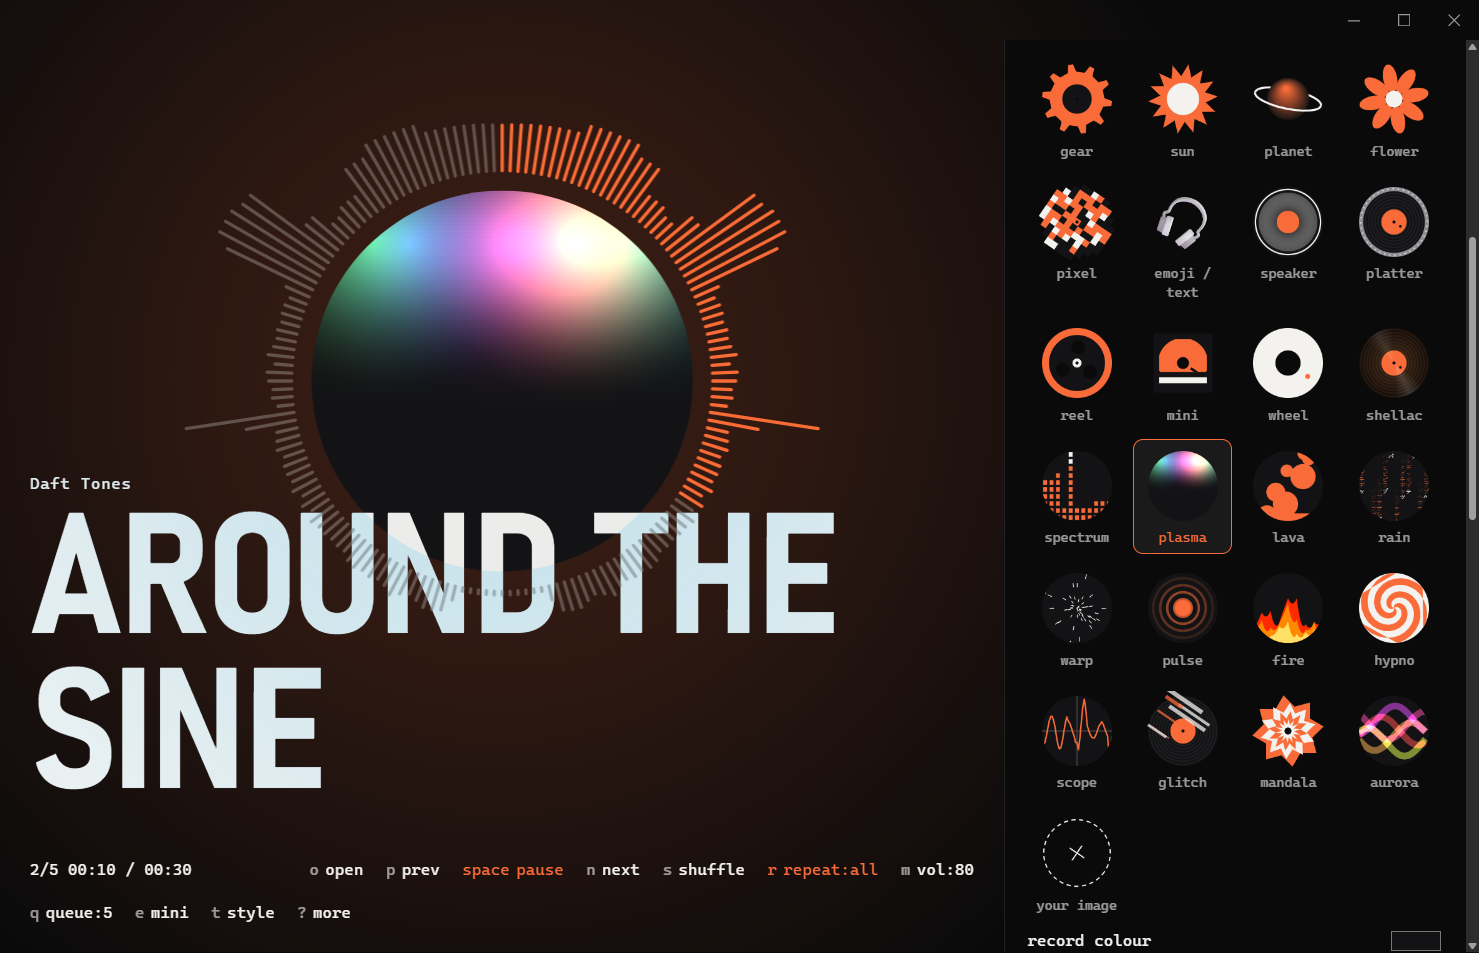
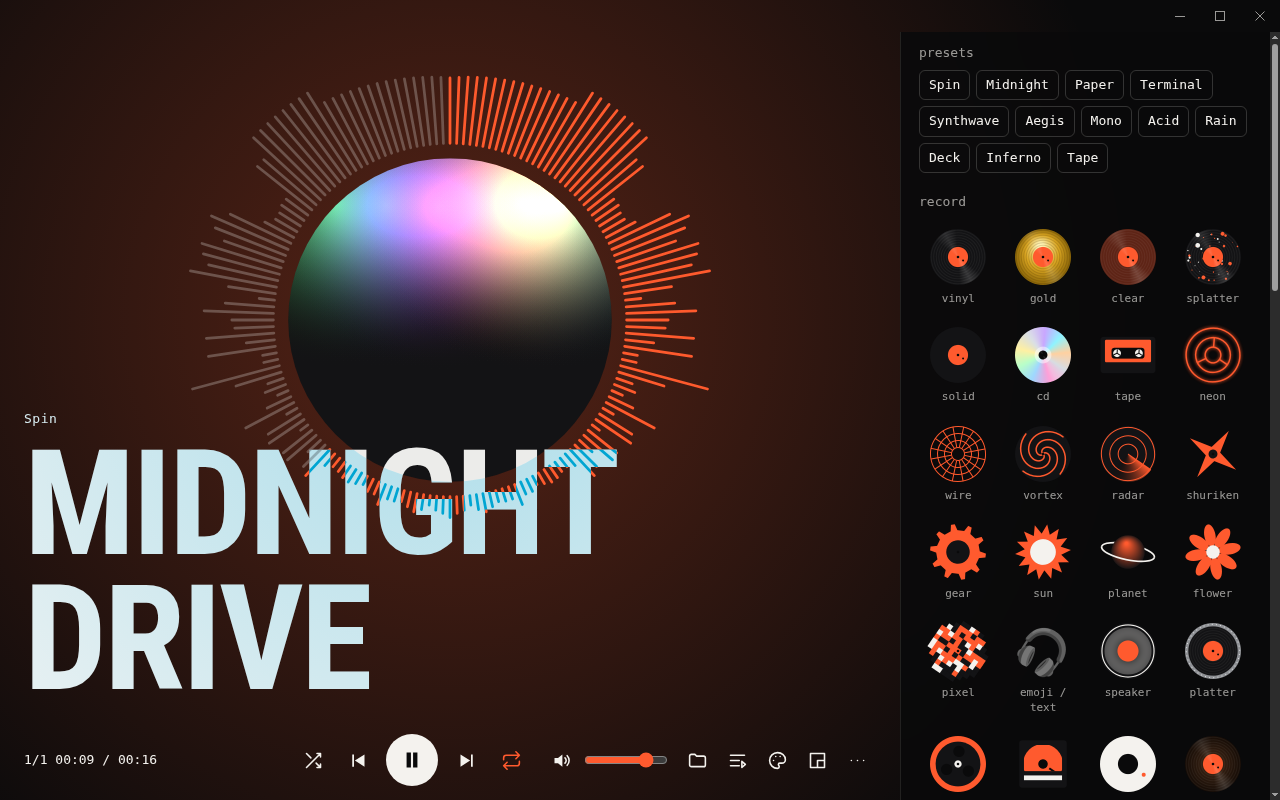
Redesign the README
Add a centred header, a looping preview, a record gallery and a theme grid,
refresh the screenshots, and fold the technical details away.

diff --git a/README.md b/README.md
@@ -1,117 +1,190 @@
+<div align="center">
+
+<img src="build/icon.png" width="110" alt="">
+
 # Spin
 
-A minimal music player for the music folder you already have. Open a folder, press play, and spin the record with your mouse to move through the song.
+**A music player you can actually spin.**
 
-No accounts, no cloud, no library to organise. Everything Spin learns stays on your computer.
+Open the folder you already have, press play, and drag the record to move through the song.<br>
+No accounts. No cloud. No library to organise.
 
-[![Spin in 16 seconds. Select to watch with sound.](docs/spin-promo.gif)](docs/spin-promo.mp4)
+[**Download**](../../releases) · [Watch the video](docs/spin-promo.mp4) · [Features](#what-it-does) · [Keys](#keyboard-shortcuts)
 
-![The Spin widget](docs/widget.png)
+[![Tests](https://github.com/theparsakhezli/Spin/actions/workflows/ci.yml/badge.svg)](https://github.com/theparsakhezli/Spin/actions/workflows/ci.yml)
+[![License: MIT](https://img.shields.io/badge/license-MIT-ff5a2e)](LICENSE)
+![Windows, macOS, Linux](https://img.shields.io/badge/runs_on-Windows_·_macOS_·_Linux-555)
 
-![The style panel, with the record gallery](docs/style-panel.png)
+<br>
+
+<a href="docs/spin-promo.mp4"><img src="docs/preview.gif" width="860" alt="Spin playing music: spinning the record, changing record styles and colours, and the small widget"></a>
+
+<sub>Click the preview to watch the 16-second video with sound.</sub>
+
+</div>
+
+## What it does
+
+### Spin to seek
+
+Drag the record to scrub, flick it to let it coast, and click it to pause. Let go and the audio spins back up like a real turntable.
+
+### 37 records, or your own
+
+<img src="docs/records.png" width="100%" alt="A grid of Spin's record styles, including vinyl, CD, cassette, neon and animated ones">
+
+Vinyl, CD, cassette, neon, and a dozen animated ones that move to the music. You can also use any emoji or text, your own image, an animated GIF or a video loop.
+
+### Make it yours
+
+<table>
+  <tr>
+    <td width="50%"><img src="docs/theme-synthwave.png" alt="Synthwave theme with a neon record"></td>
+    <td width="50%"><img src="docs/theme-paper.png" alt="Paper theme, light with a serif title"></td>
+  </tr>
+  <tr>
+    <td><img src="docs/theme-terminal.png" alt="Terminal theme, green on black"></td>
+    <td><img src="docs/theme-aegis.png" alt="Aegis theme with a gold record"></td>
+  </tr>
+</table>
+
+Change the colours, fonts, ring shape, glow and background from a live panel beside the record. Start from 12 presets, save your own, and share them as a file. You can also import the images and colours from a Winamp skin you own.
+
+<p align="center"><img src="docs/style-panel.png" width="760" alt="The style panel open beside the record, showing the record gallery"></p>
+
+### Big or small
+
+<p align="center"><img src="docs/widget.png" width="460" alt="The small Spin widget with the record, song title, progress and play controls"></p>
+
+Use the full view with proper play controls, or the small always-on-top widget. Switch with one click.
+
+### It gets to know you
+
+- **Smarter shuffle:** songs you finish come up more, and songs you skip come up less. With enough history, it also leans towards what you usually play at this hour.
+- **Per-song volume:** each song remembers its own level.
+- **Marks:** mark a moment you love, and the record snaps to it.
+- **Stickers and wear:** put a sticker on the label. The songs you play most slowly look worn in.
+- **Crates:** switch between named folders, each keeping its own place.
+- **Your year:** see your hours, top songs and top artists.
+
+### Plays nicely with games
+
+Game mode shrinks Spin to just the record while a game has focus, with its own volume level. Global hotkeys let you pause or skip without leaving the game.
+
+### Private by design
+
+Spin makes no network requests of its own. Your listening history stays on your computer.
 
 ## Download
 
-Get the latest build from the [Releases](../../releases) page.
+Get the latest version from the [**Releases page**](../../releases).
 
-| System | File | Notes |
-|---|---|---|
-| Windows | `Spin-x.y.z-win-x64.exe` | The installer isn't code-signed, so SmartScreen may warn you. Choose **More info**, then **Run anyway**. |
-| macOS (Apple silicon) | `Spin-x.y.z-mac-arm64.dmg` | See [Opening on macOS](#opening-on-macos). |
-| macOS (Intel) | `Spin-x.y.z-mac-x64.dmg` | See [Opening on macOS](#opening-on-macos). |
-| Debian, Ubuntu | `Spin-x.y.z-linux-amd64.deb` | `sudo apt install ./Spin-*.deb` |
-| Other Linux | `Spin-x.y.z-linux-x86_64.AppImage` | `chmod +x Spin-*.AppImage`, then run it. Also available as `.tar.gz`. |
+| System | File |
+|---|---|
+| **Windows** | `Spin-x.y.z-win-x64.exe` |
+| **macOS (Apple silicon)** | `Spin-x.y.z-mac-arm64.dmg` |
+| **macOS (Intel)** | `Spin-x.y.z-mac-x64.dmg` |
+| **Debian, Ubuntu** | `Spin-x.y.z-linux-amd64.deb` |
+| **Other Linux** | `Spin-x.y.z-linux-x86_64.AppImage` or `.tar.gz` |
 
-### Opening on macOS
+<details>
+<summary><b>Install notes for each system</b></summary>
 
-Builds aren't notarized, because that requires a paid Apple Developer account. macOS will refuse to open the app at first. To allow it, drag Spin to Applications and run:
+<br>
+
+**Windows:** the installer isn't code-signed, so SmartScreen may warn you. Choose **More info**, then **Run anyway**.
+
+**macOS:** builds aren't notarized, because that requires a paid Apple Developer account. Drag Spin to Applications, then run:
 
 ```sh
 xattr -cr /Applications/Spin.app
 ```
 
-## What it does
+The macOS build passes automated tests but has had little real-world use, so reports are welcome.
 
-- **Spin to seek.** Drag the record to scrub, flick it to coast, and click it to pause. Letting go spins the audio back up like a real turntable.
-- **A small widget or a big screen.** It opens as a small always-on-top window. Press `e` for the full view.
-- **Learns from you.** Shuffle favours songs you finish, plays fewer of the ones you skip, and leans towards what you usually play at this hour. Each song remembers its own volume.
-- **37 record styles.** Vinyl, CD, cassette, neon, a dozen animated ones that react to the music, any emoji or text, or your own image.
-- **Your GIFs and videos.** Animated GIF, WebP and PNG, plus MP4 and WebM loops, on the record or as the background.
-- **Restyle everything.** Colours, fonts (installed or your own files), ring shape, glow and presets. Save, export and share your styles.
-- **Skin import.** Drop a zip-based skin you own (`.wsz`, `.wal`, `.vlt`, `.zip`) to extract its images and, for Winamp-style skins, its colours.
-- **Marks and stickers.** Mark moments in a song and the record snaps to them. Put a sticker on the label. Played-to-death songs look worn.
-- **Game mode.** Shrinks to just the record while a game has focus, with its own volume level.
-- **Global hotkeys, crates and a year in review.** Switch between named folders, and see your own listening stats.
+**Debian, Ubuntu:**
 
-## Keys
+```sh
+sudo apt install ./Spin-*.deb
+```
 
-Every main control has a button, and these shortcuts do the same things.
+**AppImage:** run `chmod +x Spin-*.AppImage`, then start it. If it won't start on a recent Ubuntu, the system is blocking Chromium's sandbox, so use the `.deb` instead.
 
-| Key | Action | Key | Action |
-|---|---|---|---|
-| `space` | play / pause | `t` | style panel |
-| `n` / `p` | next / previous | `e` | widget / full view |
-| `←` `→` | seek 5 seconds | `q` | queue |
-| `↑` `↓` | volume | `/` | filter tracks |
-| `s` | shuffle | `c` | crates |
-| `r` | repeat | `y` | your year |
-| `m` | mute | `g` | game mode |
-| `b` | mark this moment | `[` `]` | jump between marks |
-| `o` | open a folder | `?` | all keys |
+</details>
 
-Press `,` to open `settings.json`, where you can change your name, global hotkeys and game list. Changes apply when you save.
+<details>
+<summary><b>What works on each system</b></summary>
 
-Default global hotkeys use `Ctrl+Alt` on Windows and macOS, and `Ctrl+Alt+Shift` on Linux, where desktops often use `Ctrl+Alt+arrows` for workspaces.
-
-## Platform differences
+<br>
 
 | Feature | Windows | macOS | Linux (X11) | Linux (Wayland) |
 |---|---|---|---|---|
 | Game mode from your games list | Yes | Yes | Yes | Press `g` |
 | Game mode for any fullscreen app | Yes | Press `g` | Yes | Press `g` |
-| Always on top | Yes | Yes | Depends on the window manager | Often ignored by the compositor |
+| Always on top | Yes | Yes | Depends on the window manager | Often ignored |
 | Global hotkeys | Yes | Yes | Yes | Depends on the desktop |
 
-Linux game detection needs `xprop`, which most X11 desktops include.
+Linux game detection needs `xprop`, which most X11 desktops include. The widget can only appear over games running in borderless or windowed mode.
 
-If the AppImage won't start on a recent Ubuntu, the system is blocking Chromium's sandbox. Use the `.deb` instead.
+</details>
 
-## Formats
+<details>
+<summary><b>Supported audio formats</b></summary>
 
-Plays what Chromium plays: MP3, FLAC, AAC/M4A, Ogg Vorbis, Opus, WAV and WebM. Apple Lossless (ALAC) `.m4a` files aren't supported and get skipped. Titles and cover art come from ID3, FLAC, Vorbis and M4A tags, and WAV files can provide titles. Files with no tags use the filename (`Artist - Title.mp3`). Tracks stream from disk, so long mixes are fine.
+<br>
 
-## Run from source
+MP3, FLAC, AAC/M4A, Ogg Vorbis, Opus, WAV and WebM. Apple Lossless (ALAC) `.m4a` files aren't supported and get skipped.
+
+Titles and cover art come from ID3, FLAC, Vorbis and M4A tags, and WAV files can provide titles. Files with no tags use the filename (`Artist - Title.mp3`). Tracks stream from disk, so long mixes are fine.
+
+</details>
+
+## Keyboard shortcuts
+
+Every main control has a button, and these shortcuts do the same things.
+
+| Key | Action | Key | Action |
+|---|---|---|---|
+| `space` | Play / pause | `t` | Style panel |
+| `n` / `p` | Next / previous | `e` | Widget / full view |
+| `←` `→` | Seek 5 seconds | `q` | Queue |
+| `↑` `↓` | Volume | `/` | Filter tracks |
+| `s` | Shuffle | `c` | Crates |
+| `r` | Repeat | `y` | Your year |
+| `m` | Mute | `g` | Game mode |
+| `b` | Mark this moment | `[` `]` | Jump between marks |
+| `o` | Open a folder | `?` | All keys |
+
+Press `,` to open `settings.json`, where you can change your name, global hotkeys and game list. Global hotkeys default to `Ctrl+Alt` on Windows and macOS, and `Ctrl+Alt+Shift` on Linux.
+
+## Contributing
+
+Issues and pull requests are welcome. Please run `npm test` first, and keep the main window uncluttered: new features should stay out of the way until someone wants them.
+
+Reports from real macOS and Linux desktops are especially useful, and so are reports from real games on any system.
+
+<details>
+<summary><b>Run from source</b></summary>
+
+<br>
 
 Requires [Node.js](https://nodejs.org) 20 or newer.
 
 ```sh
 npm ci
 npm start
+npm test            # end-to-end test (Linux without a display: xvfb-run -a npm test)
+npm run dist        # build installers for this system
 ```
 
-`index.html` also runs on its own in Chrome or Edge, without the desktop-only features.
+If you see `bad option` errors in a VS Code terminal, run `unset ELECTRON_RUN_AS_NODE` first (PowerShell: `Remove-Item Env:ELECTRON_RUN_AS_NODE`).
 
-If you see `bad option` errors from a VS Code terminal, run `unset ELECTRON_RUN_AS_NODE` first (PowerShell: `Remove-Item Env:ELECTRON_RUN_AS_NODE`).
+The player is three files, with no runtime dependencies: `index.html` (interface, audio and drawing), `main.js` (window, files and system integration) and `preload.js` (the bridge between them). `index.html` also runs on its own in Chrome or Edge, without the desktop-only features.
 
-```sh
-npm test            # end-to-end test against generated audio (Linux without a display: xvfb-run -a npm test)
-npm run dist        # build installers for the current system
-```
+</details>
 
-The whole player is three files: `index.html` (interface, audio and drawing), `main.js` (window, files and system integration) and `preload.js` (the narrow bridge between them). There are no runtime dependencies.
-
-## Contributing
-
-Issues and pull requests are welcome. Please run `npm test` first, and keep the main window uncluttered: new features should stay invisible until someone wants them.
-
-Testing on real macOS and Linux desktops is especially useful, including Wayland and tiling window managers. Reports from real games are welcome on every system.
-
-## Privacy
-
-Spin makes no network requests of its own. Listening history, marks and styles are stored in your user data folder (`memory.json`, `settings.json` and the app's browser storage).
-
-## Credits and license
+## License
 
 [MIT](LICENSE). Built with [Electron](https://www.electronjs.org).
 
-Spin isn't affiliated with Winamp, VLC or any other player. It includes none of their artwork, and skins you import stay on your computer. Only import skins you have the right to use.
+Spin isn't affiliated with Winamp, VLC or any other player, and includes none of their artwork. Only import skins you have the right to use.
